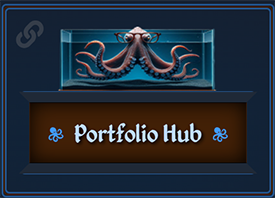
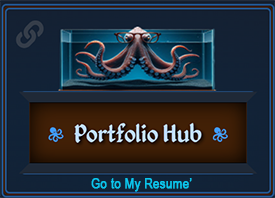
tune

Changed region(s): [[0.32, 0.8788, 0.6982, 0.9697]]

diff --git a/README.md b/README.md
@@ -6,9 +6,9 @@
  
   
   
-  <div align="center" style="position:relative, display:flex-row, justify-content:center, align-items:center, width: 100%
-                                  " >
-  <span  class="spanner" style="font-family: 'Georgia', serif; color: whitesmoke, margin:auto,  "> Click "Zale" the Octopus !</span>
+  <div align="center"    >
+                               
+  <span  class="spanner" style="font-family: 'Georgia', serif; color: whitesmoke,  "> Click "Zale" the Octopus !</span>
  <a href="https://resume-hub.mybabb.com">
   
  
